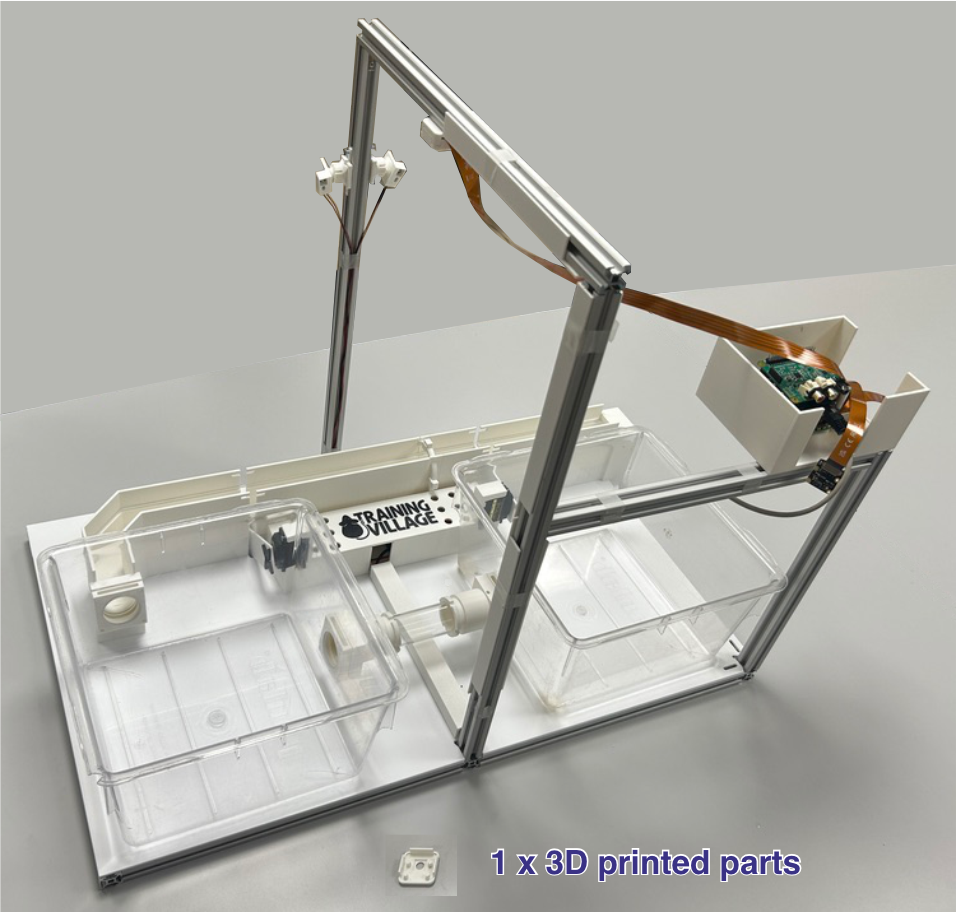
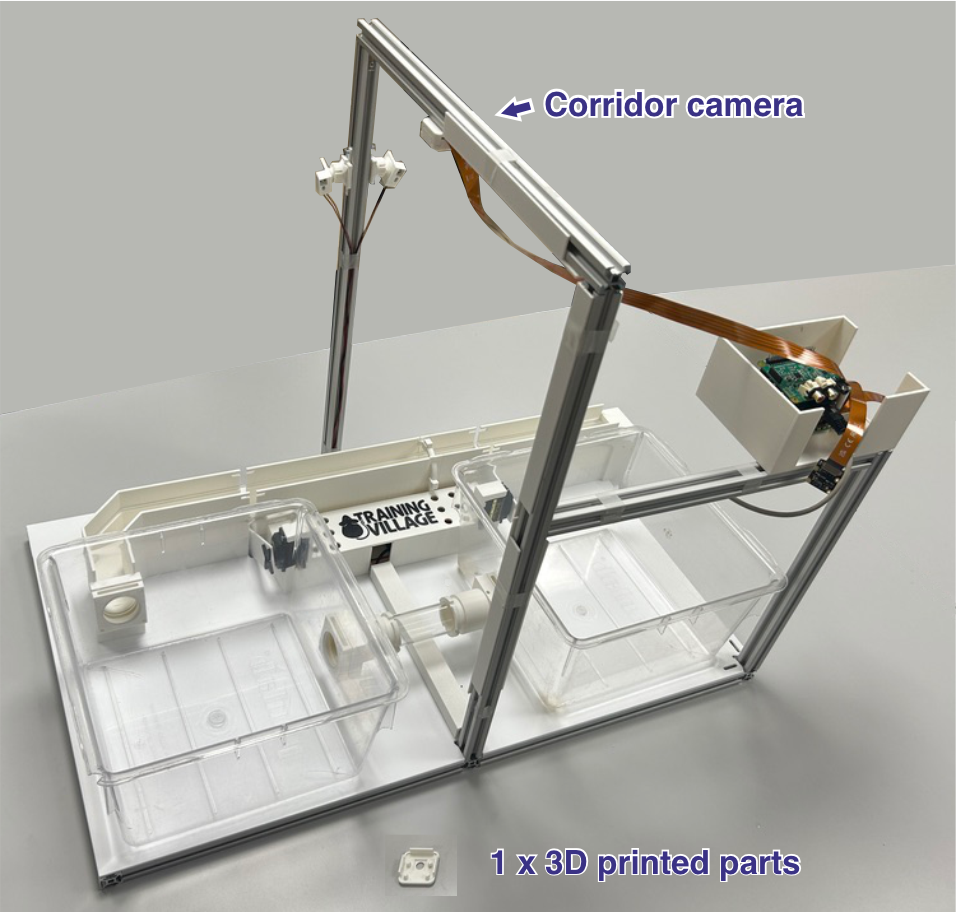
adding brainmap.png

Changed region(s): [[0.5157, 0.0921, 0.8494, 0.1535], [0.6674, 0.9211, 0.819, 0.9825], [0.5764, 0.9211, 0.637, 0.9518]]

diff --git a/village/calibration/optogrid_calibration.py b/village/calibration/optogrid_calibration.py
@@ -28,9 +28,7 @@ except Exception:
     _BLEAK_AVAILABLE = False
 
 _HERE = os.path.dirname(os.path.abspath(__file__))
-_BRAIN_MAP_PATH = os.path.normpath(
-    os.path.join(_HERE, "..", "optogrid-manager", "dashboard", "brainmap.png")
-)
+_BRAIN_MAP_PATH = os.path.join(_HERE, "brainmap.png")
 
 _PARAM_LABELS: dict[str, tuple[str, str]] = {
     "sequence_length": ("Sequence Length", "count"),

diff --git a/docs/source/main/welcome.md b/docs/source/main/welcome.md
@@ -83,15 +83,15 @@
 
 
 <!-- ── SECTION 8: Source Code ── -->
-<div class="full-bleed" style="background: #f7f5ff; padding: 2rem 2rem 1.5rem 2rem; margin-bottom: 4px;">
-<div style="padding: 2.5rem 2rem; margin-bottom: 4px;">
+<div class="full-bleed" style="background: #f7f5ff; padding: 2.5rem 2rem; margin-bottom: 4px;">
 <h1 style="font-size: 1.6rem;">Source Code</h1>
-<p>Training Village is fully open-source. We’d be glad if you’d like to download, collaborate, or report issues on our <a href="https://github.com/BrainCircuitsBehaviorLab/village">GitHub page</a>.</p>
+<p>Training Village is fully open-source. You are welcome to explore the code, contribute, or report issues on our <a href="https://github.com/BrainCircuitsBehaviorLab/village">GitHub page</a>.</p>
 </div>
 
 
 
 <!-- ── SECTION 9: About the Project ── -->
+<div style="padding: 2.5rem 2rem; margin-bottom: 4px;">
 <p><strong>Developed by:</strong></p>
 <a href="https://braincircuitsbehavior.org"
 style="color:#8B00FF; font-size:24px; font-weight:normal;
@@ -103,4 +103,5 @@ BRAIN CIRCUITS AND BEHAVIOR LAB
   <img src="_static/AEI.png" alt="AEI logo" style="height: 70px;">
   <img src="_static/ERC.png" alt="ERC logo" style="height: 70px;">
   <img src="_static/CELLEX.png" alt="Cellex logo" style="height: 70px;">
+</div>
 </div>

diff --git a/docs/source/resources/software_installation.md b/docs/source/resources/software_installation.md
@@ -77,7 +77,8 @@ sudo apt install python3-evdev
 
 
 5. Install evtest
-````
+
+```
 sudo apt install evtest
 ```
 

diff --git a/docs/source/resources/list_of_parts.md b/docs/source/resources/list_of_parts.md
@@ -1,4 +1,4 @@
-## List of Parts
+## List of Parts & Design Files
 
 Below are the detailed component lists required to print, source, and assemble the Training Village system.
 